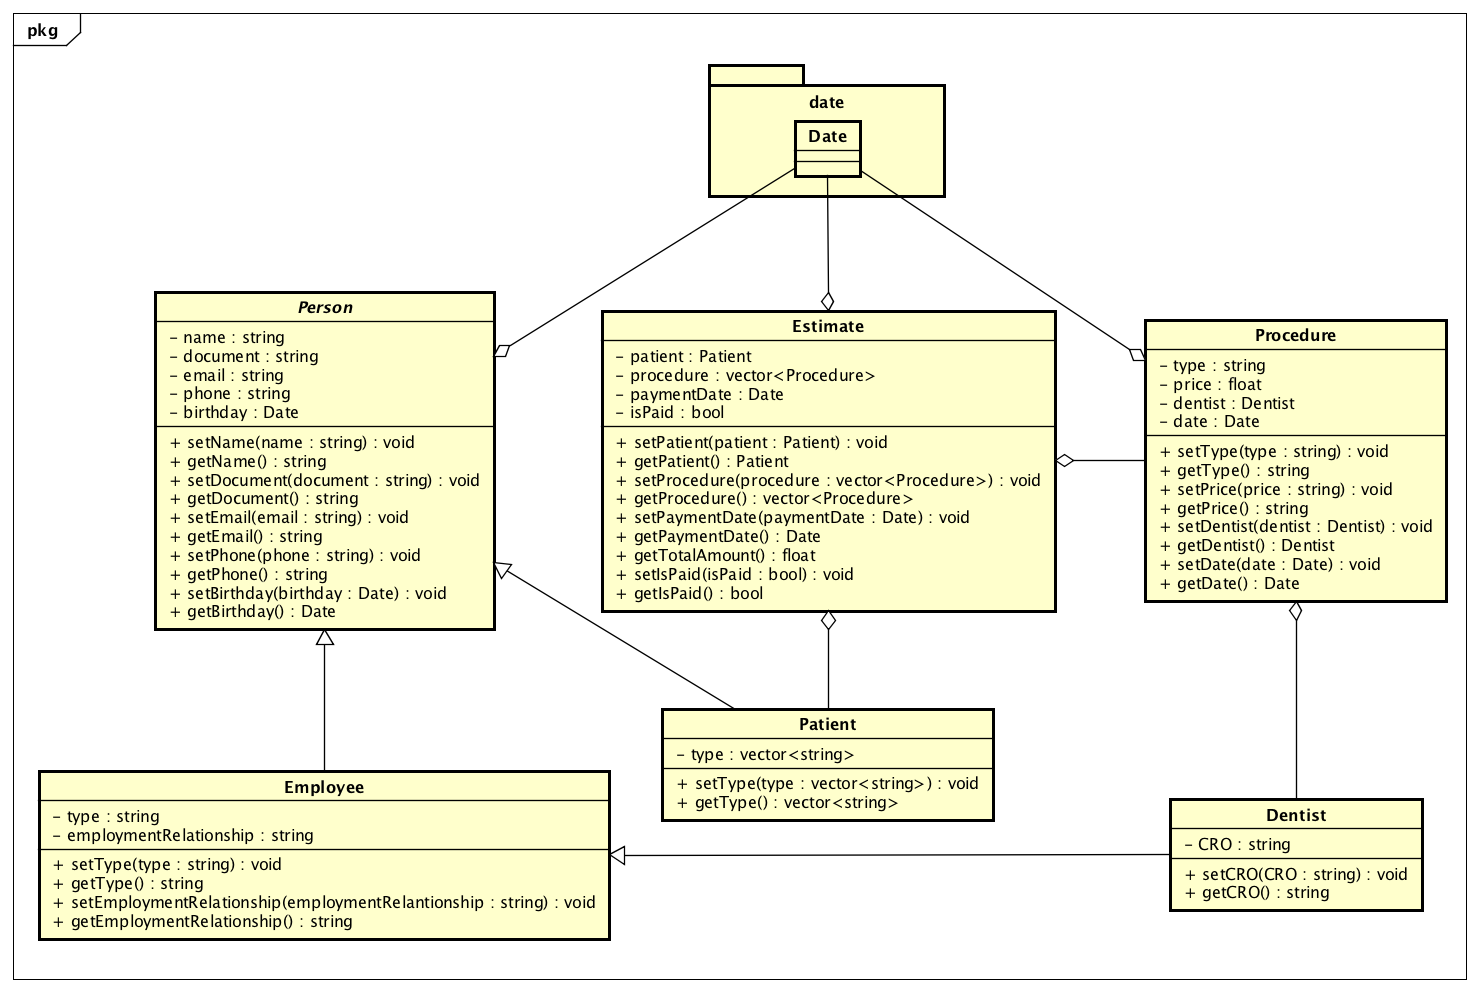
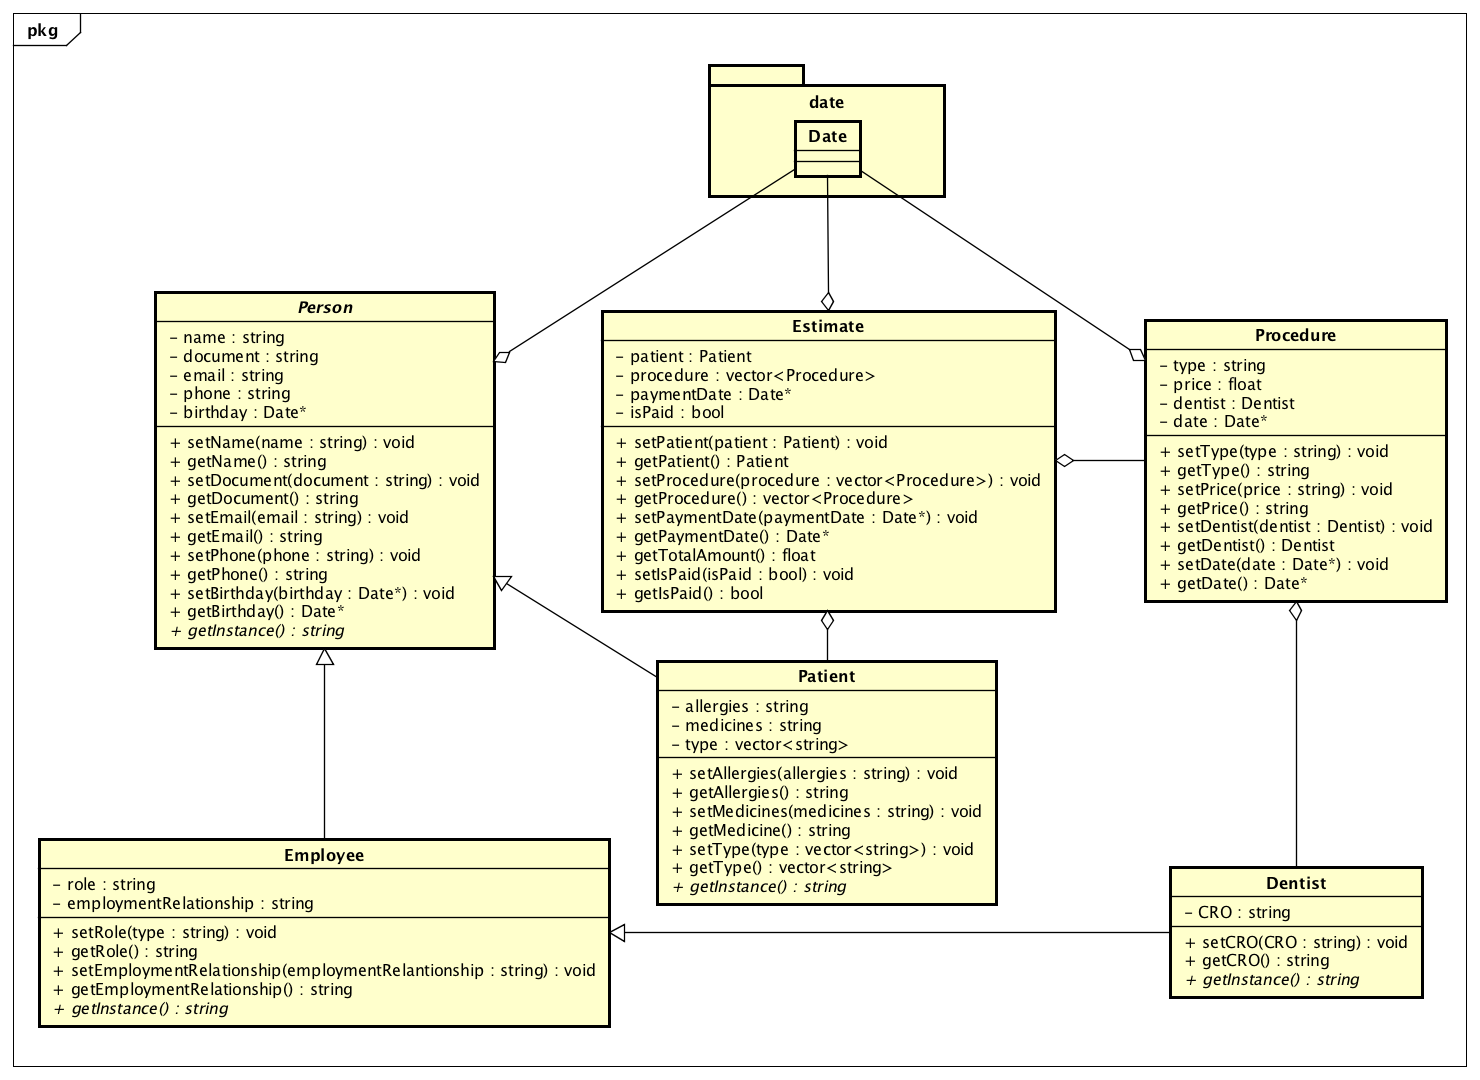
Finish project

diff --git a/src/Patient.h b/src/Patient.h
@@ -2,7 +2,14 @@ class Patient : public Person {
 private:
     string allergies;
     string medicines;
+    vector<string> type;
 public:
+    void setType (vector<string> _type) {
+        type = _type;
+    }
+    vector<string> getType () {
+        return type;
+    }
     void setAllergies (string _allergies) {
         allergies = _allergies;
     };

diff --git a/README.md b/README.md
@@ -1,2 +1,30 @@
 # smile-dentistry
-Develops and implements a hierarchy of classes with polymorphic behavior to attend the construction of a system for the clinic Smile Odontologia S / A.
+> Develops and implements a hierarchy of classes with polymorphic behavior to attend the construction of a system for the clinic Smile Odontologia S / A.
+
+### Contributors
+
+* Lucas Leandro Costa Lacerda
+
+## Developing
+
+### Built With
+ - iostream
+ - vector
+ - exception
+
+
+### Setting up Example
+
+To run the example file, use the code bellow:
+
+```shell
+git clone https://github.com/LucasLacerdaCL/smile-dentistry.git
+cd date/src
+./installDependencies.sh
+g++ main.cpp -o main.exe
+./main.exe
+```
+
+## Licensing
+
+Released under the MIT license.
